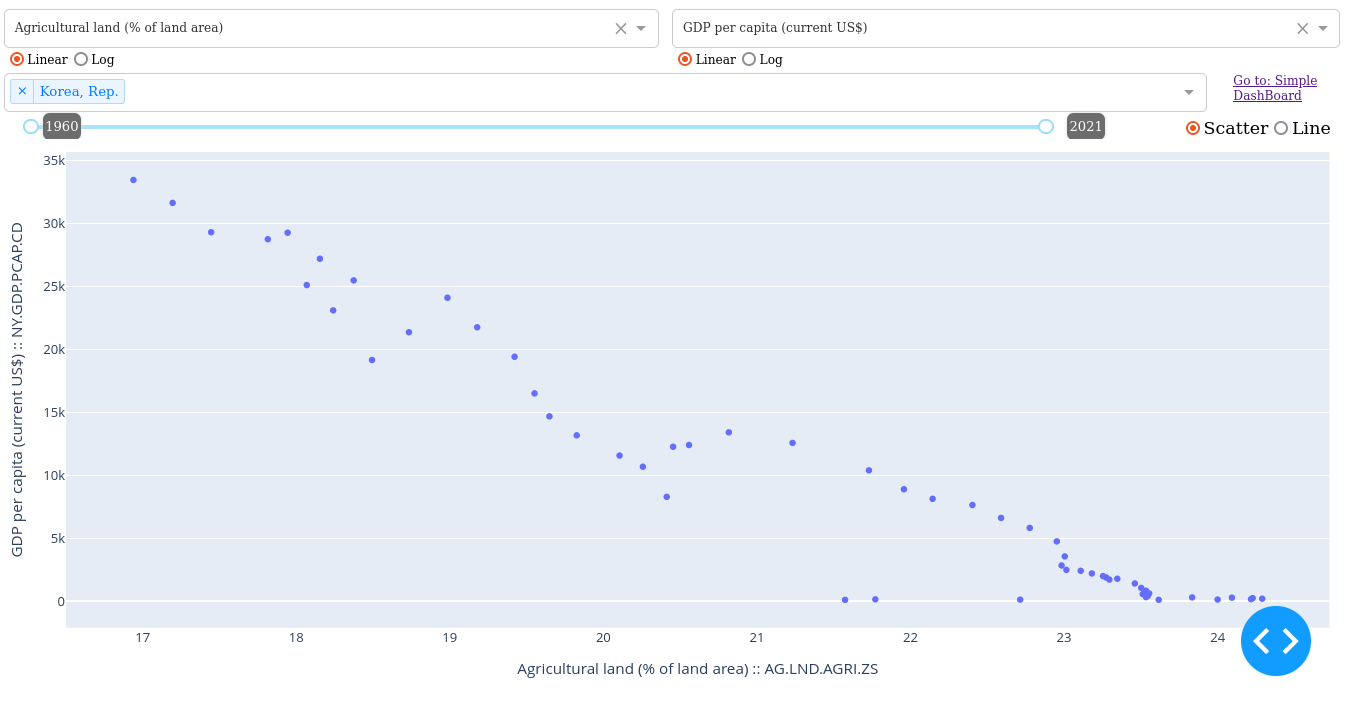
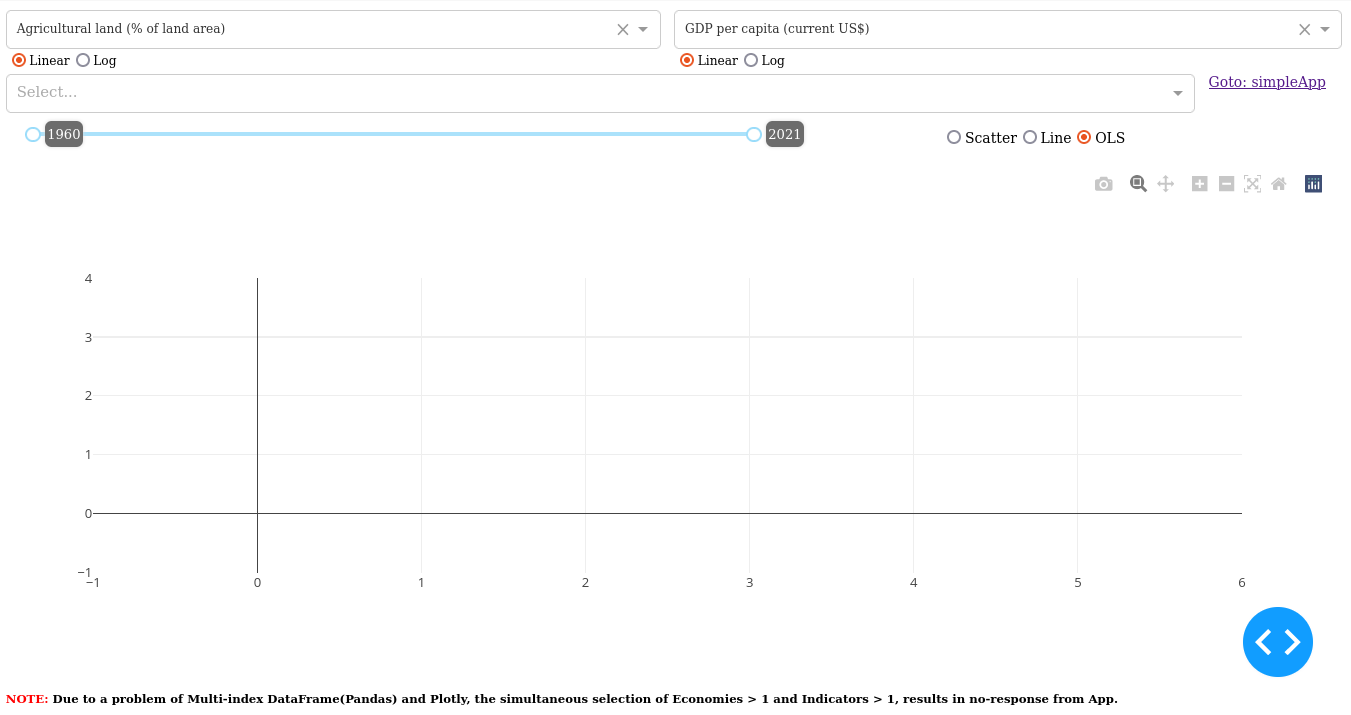
update appPages v.6, screenshots, env.yml, README.org

diff --git a/appPages/multiApp.py b/appPages/multiApp.py
@@ -6,7 +6,7 @@ import wbgapi as wb
 
 from appPages.appSupport import ind_dic, econ_dic, min_year, max_year
 from appPages.appSupport import return_key, extract_data
-from appPages.appSupport import first_var, second_var, country_var
+from appPages.appSupport import first_var, second_var
 
 layout = html.Div([
     html.Div([
@@ -56,43 +56,27 @@ layout = html.Div([
             options=[
                 {"label": key, "value": value}
                 for key, value in econ_dic.items()],
-            value=country_var,
+            value=[],
             clearable=False,
             multi=True)
     ],
         style={
-        "width": "90%",
+        "width": "89%",
         "display": "inline-block",
         "padding": "5px 0px 0px 0px",
         "font-size": "85%"}
     ),
     html.Div([
-        dcc.Link('Go to: Simple DashBoard',
+        dcc.Link('Goto: simpleApp',
                  href='/simpleApp'),
     ],            style={
-        'width': '8%',
+        'width': '10%',
         'float': 'right',
         "padding": "5px 0px 0px 0px",
         "display": "inline-block",
-        "font-size": "70%"
+        "font-size": "80%"
     }
     ),
-    html.Br(),
-    html.Div([
-        dcc.RadioItems(
-            value="Scatter",
-            id="plot-choice-7",
-            options=['Scatter', 'Line'],
-            # labelStyle={
-            # "display": "inline-block",
-            # "marginTop": "0px",
-            # },
-        ),
-    ], style={
-        'width': '17%',
-        'float': 'right',
-        'display': 'inline-block'
-    }),
     html.Div([
         dcc.RangeSlider(
             id="year-slider-7",
@@ -107,24 +91,41 @@ layout = html.Div([
             value=[min_year, max_year])
     ],
         style={
-        "width": "70%",
+        "width": "58%",
         'float': 'left',
         "display": "inline-block",
-        # "padding": "2px 0px 0px 0px",
+        "marginTop": "8px",
         "font-size": "50%"
     }
     ),
-    html.Br(),
+    html.Div([
+        dcc.RadioItems(
+            value="OLS",
+            id="plot-choice-7",
+            options=['Scatter', 'Line', "OLS"],
+            inline=True,
+        ),
+    ], style={
+        'width': '30%',
+        'float': 'right',
+        "marginTop": "8px",
+        'display': 'inline-block',
+        "font-size": "80%"
+    }),
     html.Div([
         dcc.Graph(id="data-graph-7"),
-    ]),
+    ],
+        style={
+        "width": "99%",
+        "display": "inline-block",
+        "marginTop": "0px",
+        "font-size": "50%"
+    }
+    ),
     html.H6(
         [
             html.Span("NOTE: ", style={"color": "red"}),
-            html.Span('''It is possible to select 2 or more Economies or Indicators,
-                          but not both options simultaneously.
-                Due to a problem with Multi-index DataFrame(Pandas) and Plotly.
-                In case of missing data, try changing the yearly input'''),
+            html.Span('''Due to a problem of Multi-index DataFrame(Pandas) and Plotly, the simultaneous selection of Economies > 1 and Indicators > 1, results in no-response from App.'''),
         ]
     ),
 ])
@@ -142,49 +143,72 @@ layout = html.Div([
 )
 def update_data(year, d_economies, y_ind, x_ind, plot_choice,
                 y_axis_type, x_axis_type):
-    if not x_ind and y_ind:
+
+    economies = len(d_economies)
+
+    if not x_ind and not y_ind or not d_economies:
+        return no_update
+    elif x_ind and y_ind and economies > 1:
+        return no_update
+    elif not x_ind and y_ind:
         x_axis = "Year"
         x_axis_title = "Year"
         y_axis = d_economies
         y_axis_title = return_key(ind_dic, y_ind)
         data = extract_data(wb, year, d_economies, y_ind)
-    elif y_ind and x_ind:
-        x_axis = x_ind
-        x_axis_title = return_key(ind_dic, x_ind)
-        y_axis = y_ind
-        y_axis_title = return_key(ind_dic, y_ind)
-        indicators = [y_ind, x_ind]
-        data = extract_data(wb, year, d_economies, indicators)
     elif x_ind and not y_ind:
         x_axis = "Year"
         y_axis = d_economies
         x_axis_title = "Year"
         y_axis_title = return_key(ind_dic, x_ind)
         data = extract_data(wb, year, d_economies, x_ind)
-    elif not x_ind and not y_ind or not d_economies:
-        return no_update
+    elif (y_ind and x_ind) and (economies == 1):
+        x_axis = x_ind
+        x_axis_title = return_key(ind_dic, x_ind)
+        y_axis = y_ind
+        y_axis_title = return_key(ind_dic, y_ind)
+        indicators = [y_ind, x_ind]
+        data = extract_data(wb, year, d_economies, indicators)
 
     fig = px.scatter(
         data,
         x=x_axis,
-        y=y_axis
+        y=y_axis,
+        labels={x_ind: x_axis_title,
+                y_ind: y_axis_title,
+                # d_economies: return_key(econ_dic, d_economies),
+                },
+        trendline=("ols" if plot_choice == "OLS" else None),
+        text=("Year" if x_ind and y_ind else None),
     )
+
     fig.update_layout(transition_duration=500)
-    fig.update_traces(mode="markers" if plot_choice ==
-                      "Scatter" else "lines+markers")
+
+    if plot_choice != "OLS":
+        fig.update_traces(mode="markers" if plot_choice ==
+                          "Scatter" else "lines+markers")
+    else:
+        fig.update_traces(textposition='top center')
+
     fig.update_xaxes(
-        title=("Year" if x_axis == "Year" else f'{x_axis_title} :: {x_ind}'),
+        title=("Year" if x_axis ==
+               "Year" else f'{x_axis_title} :: {x_ind}'),
         showgrid=False,
         type="linear" if x_axis_type == "Linear" else 'log')
+
     fig.update_yaxes(
         title=f"{y_axis_title} :: {y_ind}",
         type="linear" if y_axis_type == "Linear" else 'log')
-    fig.update_layout(height=500, margin={
-        "l": 20,
-        "r": 10,
-        "b": 10,
-        "t": 10
-    })
+
+    fig.update_layout(height=500,
+                      margin={
+                          "l": 20,
+                          "r": 10,
+                          "b": 10,
+                          "t": 28
+                      }
+                      )
+
     fig.update_layout(
         legend=dict(
             title_text="", orientation="h",
@@ -192,4 +216,5 @@ def update_data(year, d_economies, y_ind, x_ind, plot_choice,
             xanchor="right", x=0.50
         )
     )
+
     return fig

diff --git a/appPages/simpleApp.py b/appPages/simpleApp.py
@@ -10,7 +10,7 @@ from appPages.appSupport import first_var, country_var
 
 layout = html.Div([
     html.Div([
-        dcc.Link('Go to: Multi DashBoard',
+        dcc.Link('Goto: multiApp',
                   href='/multiApp'),
     ],
         style={
@@ -48,40 +48,69 @@ layout = html.Div([
             'font-size': '85%'
     }
     ),
-    html.Br(),
     html.Div([
+        dcc.RadioItems(
+            id="plot-choice-2",
+            options=["None", "OLS"],
+            value="None",
+            inline=True,
+            labelStyle={
+                "width": "15%",
+                "marginTop": "0px",
+                "display": "inline-block",
+                "float": "right",
+                "font-size": "80%",
+            },
+        ),
         dcc.RadioItems(
             id="y-axis-type-2",
             options=["Linear", "Log"],
             value="Linear",
+            inline=True,
             labelStyle={
-               "display": "inline-block",
+                "width": "15%",
+                "marginTop": "0px",
+                "float": "left",
+                "display": "inline-block",
+                "font-size": "80%",
             },
         ),
-    ], style={'width': '15%', 'float': 'right', 'display': 'inline-block'}),
+    ]),
     html.Div([
         dcc.RangeSlider(
             id="year-slider-2",
             min=min_year,
             max=max_year,
             step=1,
-            tooltip={"placement": "right", "always_visible": True},
+            tooltip={
+                "placement": "right",
+                "always_visible": True},
             marks=None,
             dots=False,
             # marks={year: str(year)[2:4] for year in years["value"]},
             # value=years["value"].max(),
-            value=[min_year, max_year]),
-    ],  style={
-        'width': '80%',
-        'display': 'inline-block',
-        'padding': '5px 0px 0px 0px',
-        'font-size': '50%'
+            value=[min_year, max_year],
+        ),
+    ],
+        style={
+        "width": "90%",
+        'float': 'left',
+        "display": "inline-block",
+        "marginTop": "8px",
+        "font-size": "50%"
     }
     ),
     html.Div([
         dcc.Graph(id='data-graph-2'),
-    ]),
-])
+    ],
+        style={
+        "width": "99%",
+        "display": "inline-block",
+        "marginTop": "0px",
+        "font-size": "50%"
+    }
+    ),
+]),
 
 
 @ callback(
@@ -90,31 +119,46 @@ layout = html.Div([
     Input('d-economies-2', 'value'),
     Input('d-indicators-2', 'value'),
     Input('y-axis-type-2', 'value'),
+    Input('plot-choice-2', 'value'),
 )
-def update_graph(year, d_economies, d_indicator, y_axis_type):
+def update_graph(year, d_economies, d_indicator, y_axis_type, plot_choice):
+
     if not d_indicator or not d_economies:
         return no_update
+
     data = extract_data(wb, year, d_economies, d_indicator)
     y_axis_title = return_key(ind_dic, d_indicator)
+
     fig = px.scatter(
         data,
         x="Year",
         y=d_economies,
+        labels={"Year": "Year",
+                d_indicator: y_axis_title,
+                # d_economies: return_key(econ_dic, d_economies),
+                },
+        trendline=("ols" if plot_choice == "OLS" else None),
     )
+
     fig.update_layout(transition_duration=500)
-    fig.update_traces(mode='lines+markers')
+
+    if plot_choice != "OLS":
+        fig.update_traces(mode='lines+markers')
     fig.update_xaxes(showgrid=False)
+
     fig.update_yaxes(
         title=f'{y_axis_title} :: {d_indicator}',
         type='linear' if y_axis_type == 'Linear' else 'log')
-    fig.update_layout(height=530,
+
+    fig.update_layout(height=450,
                       margin={
                           'l': 20,
                           'r': 10,
                           'b': 10,
-                          't': 10
+                          't': 28
                       }
                       )
+
     fig.update_layout(legend=dict(
         title_text="",
         orientation="h",
@@ -123,4 +167,5 @@ def update_graph(year, d_economies, d_indicator, y_axis_type):
         xanchor="right",
         x=0.50
     ))
+
     return fig

diff --git a/appPages/appSupport.py b/appPages/appSupport.py
@@ -3,8 +3,9 @@ import wbgapi as wb
 
 # wb.db = 1
 
-indicators = pd.DataFrame(wb.series.info().items)
-economies = pd.DataFrame(wb.economy.info().items)
+# database = pd.DataFrame(wb.source.info().items)
+indicators = pd.DataFrame(wb.series.info(db=None).items)
+economies = pd.DataFrame(wb.economy.info(db=None).items)
 
 years = pd.DataFrame(wb.time.info().items)
 years["value"] = years["value"].astype("int")
@@ -13,8 +14,6 @@ max_year = years["value"].max()
 
 econ_dic = dict(economies.set_index("value")['id'])
 ind_dic = dict(indicators.set_index("value")["id"])
-
-# database = pd.DataFrame(wb.source.info().items)
 # db_dic = dict(database.set_index("name")['id'])
 
 if wb.db == 2:
@@ -38,7 +37,7 @@ def extract_data(wb, year, d_economies, d_indicator):
     data = (
         wb.data.DataFrame(d_indicator, d_economies,
                           numericTimeKeys=True,
-                          labels=True
+                          labels=True,
                           )
         .iloc[:, 3:]
         .transpose()
